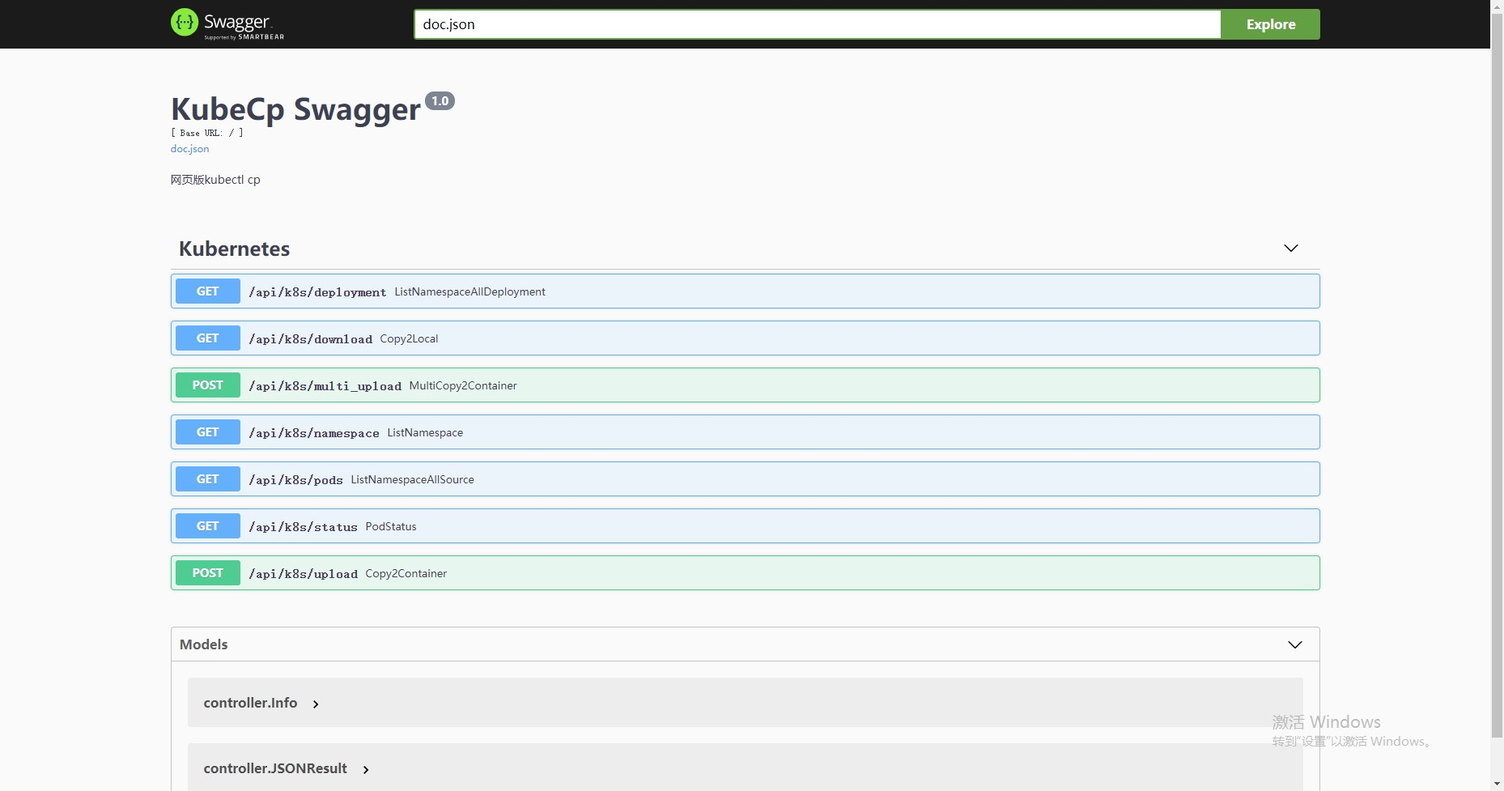
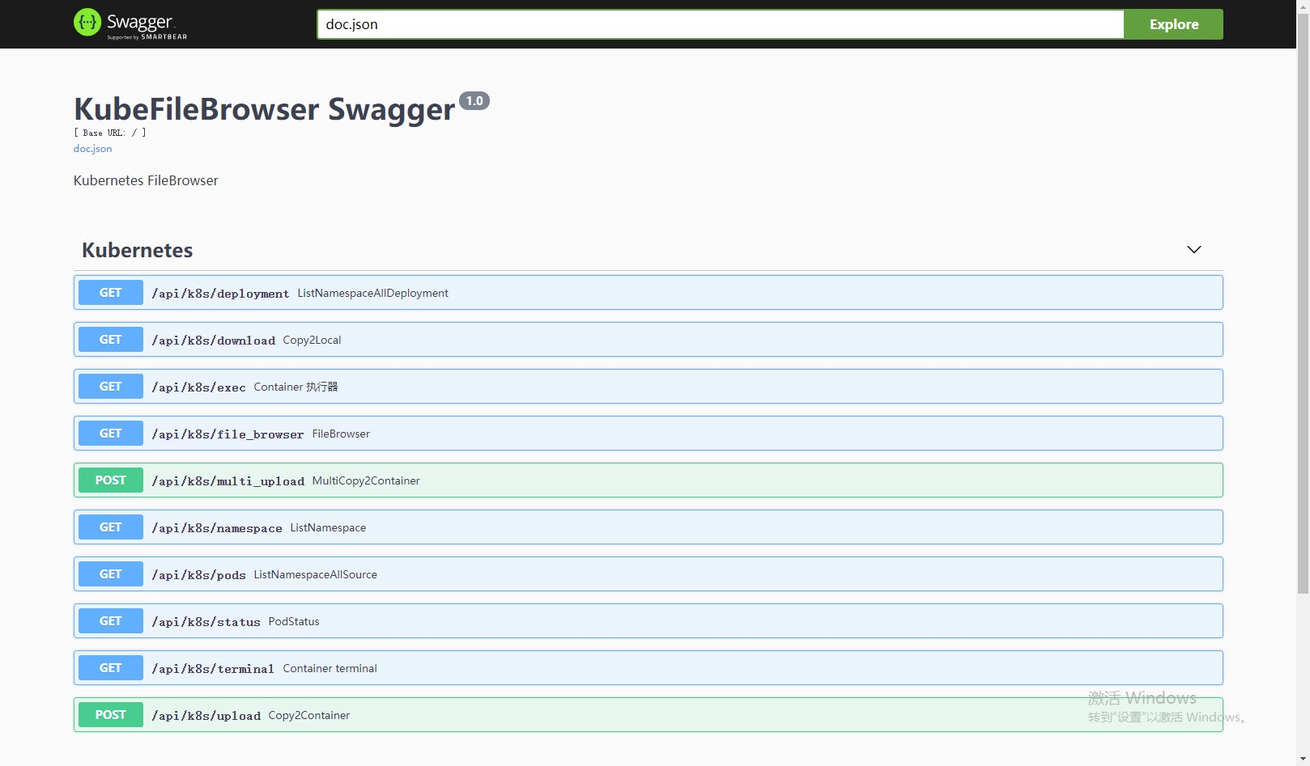
Update README.md

diff --git a/static/js/index.7d00048d.js b/static/js/index.7d00048d.js
@@ -1,0 +1,2 @@
+(function(e){function t(t){for(var n,s,c=t[0],d=t[1],i=t[2],l=0,u=[];l<c.length;l++)s=c[l],Object.prototype.hasOwnProperty.call(o,s)&&o[s]&&u.push(o[s][0]),o[s]=0;for(n in d)Object.prototype.hasOwnProperty.call(d,n)&&(e[n]=d[n]);f&&f(t);while(u.length)u.shift()();return r.push.apply(r,i||[]),a()}function a(){for(var e,t=0;t<r.length;t++){for(var a=r[t],n=!0,s=1;s<a.length;s++){var c=a[s];0!==o[c]&&(n=!1)}n&&(r.splice(t--,1),e=d(d.s=a[0]))}return e}var n={},s={index:0},o={index:0},r=[];function c(e){return d.p+"js/"+({}[e]||e)+"."+{"chunk-119f7568":"d7f2ed32","chunk-2d0c8a18":"7de5e9ec","chunk-2d0e523f":"cf1d377d","chunk-3c5be004":"fb1a3933","chunk-2d21f4b8":"b65d7fc1","chunk-681025a2":"60150167","chunk-cf10ed40":"1906f03c","chunk-fd94dad0":"9ed4e78a"}[e]+".js"}function d(t){if(n[t])return n[t].exports;var a=n[t]={i:t,l:!1,exports:{}};return e[t].call(a.exports,a,a.exports,d),a.l=!0,a.exports}d.e=function(e){var t=[],a={"chunk-119f7568":1};s[e]?t.push(s[e]):0!==s[e]&&a[e]&&t.push(s[e]=new Promise((function(t,a){for(var n="css/"+({}[e]||e)+"."+{"chunk-119f7568":"aca39d08","chunk-2d0c8a18":"31d6cfe0","chunk-2d0e523f":"31d6cfe0","chunk-3c5be004":"31d6cfe0","chunk-2d21f4b8":"31d6cfe0","chunk-681025a2":"31d6cfe0","chunk-cf10ed40":"31d6cfe0","chunk-fd94dad0":"31d6cfe0"}[e]+".css",o=d.p+n,r=document.getElementsByTagName("link"),c=0;c<r.length;c++){var i=r[c],l=i.getAttribute("data-href")||i.getAttribute("href");if("stylesheet"===i.rel&&(l===n||l===o))return t()}var u=document.getElementsByTagName("style");for(c=0;c<u.length;c++){i=u[c],l=i.getAttribute("data-href");if(l===n||l===o)return t()}var f=document.createElement("link");f.rel="stylesheet",f.type="text/css",f.onload=t,f.onerror=function(t){var n=t&&t.target&&t.target.src||o,r=new Error("Loading CSS chunk "+e+" failed.\n("+n+")");r.code="CSS_CHUNK_LOAD_FAILED",r.request=n,delete s[e],f.parentNode.removeChild(f),a(r)},f.href=o;var b=document.getElementsByTagName("head")[0];b.appendChild(f)})).then((function(){s[e]=0})));var n=o[e];if(0!==n)if(n)t.push(n[2]);else{var r=new Promise((function(t,a){n=o[e]=[t,a]}));t.push(n[2]=r);var i,l=document.createElement("script");l.charset="utf-8",l.timeout=120,d.nc&&l.setAttribute("nonce",d.nc),l.src=c(e);var u=new Error;i=function(t){l.onerror=l.onload=null,clearTimeout(f);var a=o[e];if(0!==a){if(a){var n=t&&("load"===t.type?"missing":t.type),s=t&&t.target&&t.target.src;u.message="Loading chunk "+e+" failed.\n("+n+": "+s+")",u.name="ChunkLoadError",u.type=n,u.request=s,a[1](u)}o[e]=void 0}};var f=setTimeout((function(){i({type:"timeout",target:l})}),12e4);l.onerror=l.onload=i,document.head.appendChild(l)}return Promise.all(t)},d.m=e,d.c=n,d.d=function(e,t,a){d.o(e,t)||Object.defineProperty(e,t,{enumerable:!0,get:a})},d.r=function(e){"undefined"!==typeof Symbol&&Symbol.toStringTag&&Object.defineProperty(e,Symbol.toStringTag,{value:"Module"}),Object.defineProperty(e,"__esModule",{value:!0})},d.t=function(e,t){if(1&t&&(e=d(e)),8&t)return e;if(4&t&&"object"===typeof e&&e&&e.__esModule)return e;var a=Object.create(null);if(d.r(a),Object.defineProperty(a,"default",{enumerable:!0,value:e}),2&t&&"string"!=typeof e)for(var n in e)d.d(a,n,function(t){return e[t]}.bind(null,n));return a},d.n=function(e){var t=e&&e.__esModule?function(){return e["default"]}:function(){return e};return d.d(t,"a",t),t},d.o=function(e,t){return Object.prototype.hasOwnProperty.call(e,t)},d.p="/static/",d.oe=function(e){throw console.error(e),e};var i=window["webpackJsonp"]=window["webpackJsonp"]||[],l=i.push.bind(i);i.push=t,i=i.slice();for(var u=0;u<i.length;u++)t(i[u]);var f=l;r.push([0,"chunk-vendors"]),a()})({0:function(e,t,a){e.exports=a("56d7")},"0351":function(e,t,a){var n={"./dashboard.vue":["d8e3","chunk-3c5be004","chunk-2d21f4b8"],"./download.vue":["67a0","chunk-3c5be004","chunk-cf10ed40"],"./filebrowser.vue":["92e5","chunk-2d0e523f"],"./layer.vue":["ad86","chunk-119f7568"],"./multiupload.vue":["5667","chunk-2d0c8a18"],"./terminal.vue":["fe80","chunk-3c5be004","chunk-681025a2"],"./upload.vue":["46c9","chunk-3c5be004","chunk-fd94dad0"]};function s(e){if(!a.o(n,e))return Promise.resolve().then((function(){var t=new Error("Cannot find module '"+e+"'");throw t.code="MODULE_NOT_FOUND",t}));var t=n[e],s=t[0];return Promise.all(t.slice(1).map(a.e)).then((function(){return a(s)}))}s.keys=function(){return Object.keys(n)},s.id="0351",e.exports=s},"3fab":function(e,t,a){"use strict";t["a"]={}},4678:function(e,t,a){var n={"./af":"2bfb","./af.js":"2bfb","./ar":"8e73","./ar-dz":"a356","./ar-dz.js":"a356","./ar-kw":"423e","./ar-kw.js":"423e","./ar-ly":"1cfd","./ar-ly.js":"1cfd","./ar-ma":"0a84","./ar-ma.js":"0a84","./ar-sa":"8230","./ar-sa.js":"8230","./ar-tn":"6d83","./ar-tn.js":"6d83","./ar.js":"8e73","./az":"485c","./az.js":"485c","./be":"1fc1","./be.js":"1fc1","./bg":"84aa","./bg.js":"84aa","./bm":"a7fa","./bm.js":"a7fa","./bn":"9043","./bn-bd":"9686","./bn-bd.js":"9686","./bn.js":"9043","./bo":"d26a","./bo.js":"d26a","./br":"6887","./br.js":"6887","./bs":"2554","./bs.js":"2554","./ca":"d716","./ca.js":"d716","./cs":"3c0d","./cs.js":"3c0d","./cv":"03ec","./cv.js":"03ec","./cy":"9797","./cy.js":"9797","./da":"0f14","./da.js":"0f14","./de":"b469","./de-at":"b3eb","./de-at.js":"b3eb","./de-ch":"bb71","./de-ch.js":"bb71","./de.js":"b469","./dv":"598a","./dv.js":"598a","./el":"8d47","./el.js":"8d47","./en-au":"0e6b","./en-au.js":"0e6b","./en-ca":"3886","./en-ca.js":"3886","./en-gb":"39a6","./en-gb.js":"39a6","./en-ie":"e1d3","./en-ie.js":"e1d3","./en-il":"7333","./en-il.js":"7333","./en-in":"ec2e","./en-in.js":"ec2e","./en-nz":"6f50","./en-nz.js":"6f50","./en-sg":"b7e9","./en-sg.js":"b7e9","./eo":"65db","./eo.js":"65db","./es":"898b","./es-do":"0a3c","./es-do.js":"0a3c","./es-mx":"b5b7","./es-mx.js":"b5b7","./es-us":"55c9","./es-us.js":"55c9","./es.js":"898b","./et":"ec18","./et.js":"ec18","./eu":"0ff2","./eu.js":"0ff2","./fa":"8df4","./fa.js":"8df4","./fi":"81e9","./fi.js":"81e9","./fil":"d69a","./fil.js":"d69a","./fo":"0721","./fo.js":"0721","./fr":"9f26","./fr-ca":"d9f8","./fr-ca.js":"d9f8","./fr-ch":"0e49","./fr-ch.js":"0e49","./fr.js":"9f26","./fy":"7118","./fy.js":"7118","./ga":"5120","./ga.js":"5120","./gd":"f6b4","./gd.js":"f6b4","./gl":"8840","./gl.js":"8840","./gom-deva":"aaf2","./gom-deva.js":"aaf2","./gom-latn":"0caa","./gom-latn.js":"0caa","./gu":"e0c5","./gu.js":"e0c5","./he":"c7aa","./he.js":"c7aa","./hi":"dc4d","./hi.js":"dc4d","./hr":"4ba9","./hr.js":"4ba9","./hu":"5b14","./hu.js":"5b14","./hy-am":"d6b6","./hy-am.js":"d6b6","./id":"5038","./id.js":"5038","./is":"0558","./is.js":"0558","./it":"6e98","./it-ch":"6f12","./it-ch.js":"6f12","./it.js":"6e98","./ja":"079e","./ja.js":"079e","./jv":"b540","./jv.js":"b540","./ka":"201b","./ka.js":"201b","./kk":"6d79","./kk.js":"6d79","./km":"e81d","./km.js":"e81d","./kn":"3e92","./kn.js":"3e92","./ko":"22f8","./ko.js":"22f8","./ku":"2421","./ku.js":"2421","./ky":"9609","./ky.js":"9609","./lb":"440c","./lb.js":"440c","./lo":"b29d","./lo.js":"b29d","./lt":"26f9","./lt.js":"26f9","./lv":"b97c","./lv.js":"b97c","./me":"293c","./me.js":"293c","./mi":"688b","./mi.js":"688b","./mk":"6909","./mk.js":"6909","./ml":"02fb","./ml.js":"02fb","./mn":"958b","./mn.js":"958b","./mr":"39bd","./mr.js":"39bd","./ms":"ebe4","./ms-my":"6403","./ms-my.js":"6403","./ms.js":"ebe4","./mt":"1b45","./mt.js":"1b45","./my":"8689","./my.js":"8689","./nb":"6ce3","./nb.js":"6ce3","./ne":"3a39","./ne.js":"3a39","./nl":"facd","./nl-be":"db29","./nl-be.js":"db29","./nl.js":"facd","./nn":"b84c","./nn.js":"b84c","./oc-lnc":"167b","./oc-lnc.js":"167b","./pa-in":"f3ff","./pa-in.js":"f3ff","./pl":"8d57","./pl.js":"8d57","./pt":"f260","./pt-br":"d2d4","./pt-br.js":"d2d4","./pt.js":"f260","./ro":"972c","./ro.js":"972c","./ru":"957c","./ru.js":"957c","./sd":"6784","./sd.js":"6784","./se":"ffff","./se.js":"ffff","./si":"eda5","./si.js":"eda5","./sk":"7be6","./sk.js":"7be6","./sl":"8155","./sl.js":"8155","./sq":"c8f3","./sq.js":"c8f3","./sr":"cf1e","./sr-cyrl":"13e9","./sr-cyrl.js":"13e9","./sr.js":"cf1e","./ss":"52bd","./ss.js":"52bd","./sv":"5fbd","./sv.js":"5fbd","./sw":"74dc","./sw.js":"74dc","./ta":"3de5","./ta.js":"3de5","./te":"5cbb","./te.js":"5cbb","./tet":"576c","./tet.js":"576c","./tg":"3b1b","./tg.js":"3b1b","./th":"10e8","./th.js":"10e8","./tk":"5aff","./tk.js":"5aff","./tl-ph":"0f38","./tl-ph.js":"0f38","./tlh":"cf75","./tlh.js":"cf75","./tr":"0e81","./tr.js":"0e81","./tzl":"cf51","./tzl.js":"cf51","./tzm":"c109","./tzm-latn":"b53d","./tzm-latn.js":"b53d","./tzm.js":"c109","./ug-cn":"6117","./ug-cn.js":"6117","./uk":"ada2","./uk.js":"ada2","./ur":"5294","./ur.js":"5294","./uz":"2e8c","./uz-latn":"010e","./uz-latn.js":"010e","./uz.js":"2e8c","./vi":"2921","./vi.js":"2921","./x-pseudo":"fd7e","./x-pseudo.js":"fd7e","./yo":"7f33","./yo.js":"7f33","./zh-cn":"5c3a","./zh-cn.js":"5c3a","./zh-hk":"49ab","./zh-hk.js":"49ab","./zh-mo":"3a6c","./zh-mo.js":"3a6c","./zh-tw":"90ea","./zh-tw.js":"90ea"};function s(e){var t=o(e);return a(t)}function o(e){if(!a.o(n,e)){var t=new Error("Cannot find module '"+e+"'");throw t.code="MODULE_NOT_FOUND",t}return n[e]}s.keys=function(){return Object.keys(n)},s.resolve=o,e.exports=s,s.id="4678"},"4f87":function(e,t,a){},"56d7":function(e,t,a){"use strict";a.r(t),function(e){var t=a("2b0e"),n=a("5c96"),s=a.n(n),o=(a("0fae"),a("c1df")),r=a.n(o),c=a("7fe4"),d=a("a18c"),i=a("9923"),l=a("f1ed"),u=a("9607"),f=(a("9368"),a("43dd"),a("59bf"));a("4f87");let b;e.navigator.language&&(b=e.navigator.language,b=b.toLowerCase()),0!==b.indexOf("en")&&(b="zh-cn"),r.a.locale(b),t["default"].config.productionTip=!1,t["default"].use(s.a,f["Terminal"]),new t["default"]({i18n:i["a"],router:d["a"],methods:l["a"],data:u["a"],render:e=>e(c["a"])}).$mount("#app")}.call(this,a("c8ba"))},"6e41":function(e,t,a){"use strict";t["a"]={add:"添加",cannot_empty:"不能为空",cancel:"取消",check_all:"全选",contribute_to_kube_cp:"为 KubeCp 做贡献",console:"控制台",container:"容器",copy:"上传下载",cpu:"处理器",dashboard:"仪表盘",delete:"删除",deleted:"已删除",deployment:"无状态集",description:"描述信息",download:"文件/目录下载",download_file:"下载",edit:"编辑",enter:"确定",filebrowser:"文件浏览器",help:"帮助",image:"镜像",image_pull_secrets:"镜像拉取策略",keyword_search:"关键字搜索",name:"名称",namespace:"命名空间",network_error:"网络错误",more:"更多",multiupload:"多Pod文件上传",operate_success:"操作成功",operate:"操作",os:"系统类型",please_input_dest_path:"请输入目标路径",please_select_container:"请选择Container",please_select_deployment:"请选择Deployment",please_select_namespace:"请选择Namespace",please_select_pod:"请选择Pod",please_select_shell:"请选择Shell",prompt_message:"提示信息",ram:"内存",remove:"移除",state:"状态",tag:"版本",terminal:"终端命令行",unknown_error:"未知错误",upload:"单Pod文件上传",upload_dir:"上传文件",upload_file:"上传文件夹"}},"7fe4":function(e,t,a){"use strict";var n=function(){var e=this,t=e.$createElement,a=e._self._c||t;return a("div",{staticClass:"global-container"},[a("router-view")],1)},s=[],o=(a("fffb"),a("2877")),r={},c=Object(o["a"])(r,n,s,!1,null,null,null);t["a"]=c.exports},9607:function(e,t,a){"use strict";t["a"]={PageSize:0,Page:0,Total:0,DialogSmallWidth:"500px",DialogNormalWidth:"750px",DialogLargeWidth:"900px",DialogNormalTop:"5vh"}},9923:function(e,t,a){"use strict";(function(e){var n=a("2b0e"),s=a("a925"),o=a("6e41"),r=a("3fab");n["default"].use(s["a"]);const c={"zh-cn":o["a"],en:r["a"]};let d;e.navigator.language&&(d=e.navigator.language,d=d.toLowerCase()),0!=d.indexOf("en")&&(d="zh-cn");const i=new s["a"]({locale:d,messages:c});t["a"]=i}).call(this,a("c8ba"))},a18c:function(e,t,a){"use strict";(function(e){a.d(t,"b",(function(){return c}));var n=a("2b0e"),s=a("8c4f"),o=a("9923");n["default"].use(s["a"]);const r=e=>()=>a("0351")("./"+e+".vue"),c=[{path:"/",component:r("layer"),name:"console",title:o["a"].t("console"),meta:{title:o["a"].t("console"),icon:"icon-console"},redirect:{name:"dashboard"},children:[{path:"dashboard",name:"dashboard",meta:{title:o["a"].t("dashboard"),icon:"icon-dashboard",single:!0},component:r("dashboard")},{path:"terminal",name:"terminal",meta:{title:o["a"].t("terminal"),icon:"icon-terminal"},component:r("terminal")},{path:"filebrowser",name:"filebrowser",meta:{title:o["a"].t("filebrowser"),icon:"icon-filebrowser"},component:r("filebrowser")}]},{path:"/copy",name:"copy",title:o["a"].t("copy"),component:r("layer"),meta:{title:o["a"].t("copy"),icon:"icon-copy"},children:[{path:"upload",name:"upload",meta:{title:o["a"].t("upload")},component:r("upload")},{path:"multiupload",name:"multiupload",meta:{title:o["a"].t("multiupload")},component:r("multiupload")},{path:"download",name:"download",meta:{title:o["a"].t("download")},component:r("download")}]}],d=new s["a"]({routes:c,base:e,scrollBehavior:()=>({y:0}),mode:"history"});t["a"]=d}).call(this,"/")},a210:function(e,t,a){},f1ed:function(e,t,a){"use strict";var n=a("c1df"),s=a.n(n);t["a"]={MessageSuccess(e){this.$message({message:this.$t("operate_success"),type:"success",duration:1200,onClose:e})},PageInit(){this.$root.PageSize=7,this.$root.Page=1,this.$root.Total=0},PageReset(){this.$root.Total--;let e=Math.ceil(this.$root.Total/this.$root.PageSize);this.$root.Page>e&&(this.$root.Page=e),this.$root.Page<1&&(this.$root.Page=1)},PageOffset(){return this.$root.PageSize*(this.$root.Page-1)},ConfirmDelete(e,t){t||(t="此操作将永久删除该数据, 是否继续?"),this.$confirm(t,"提示",{confirmButtonText:"确定",cancelButtonText:"取消",type:"warning"}).then(()=>{e()}).catch(e=>{console.log(e)})},FormatDateTime(e,t){return e?(t||(t="YYYY-MM-DD HH:mm:ss"),s.a.unix(e).format(t)):"--"},FormatDateDuration(e){return s.a.duration(e).humanize(!1)},FormatDateFromNow(e){return e?s.a.unix(e).fromNow():"--"},Substr(e,t){if("[object String]"!=Object.prototype.toString.call(e))return"";let a="";return e.length>t&&(a="..."),e.substr(0,t)+a}}},fffb:function(e,t,a){"use strict";a("a210")}});
+//# sourceMappingURL=index.7d00048d.js.map

diff --git a/static/index.html b/static/index.html
@@ -1,1 +1,1 @@
-<!DOCTYPE html><html lang=""><head><meta charset="utf-8"><meta http-equiv="X-UA-Compatible" content="IE=edge"><meta name="viewport" content="width=device-width,initial-scale=1"><title>Vue App</title><link href="/static/css/chunk-119f7568.aca39d08.css" rel="prefetch"><link href="/static/js/chunk-119f7568.d7f2ed32.js" rel="prefetch"><link href="/static/js/chunk-2d0c8a18.7de5e9ec.js" rel="prefetch"><link href="/static/js/chunk-2d0e523f.cf1d377d.js" rel="prefetch"><link href="/static/js/chunk-2d21f4b8.b65d7fc1.js" rel="prefetch"><link href="/static/js/chunk-3c5be004.fb1a3933.js" rel="prefetch"><link href="/static/js/chunk-681025a2.60150167.js" rel="prefetch"><link href="/static/js/chunk-cf10ed40.1906f03c.js" rel="prefetch"><link href="/static/js/chunk-fd94dad0.9ed4e78a.js" rel="prefetch"><link href="/static/css/chunk-vendors.78d6f332.css" rel="preload" as="style"><link href="/static/css/index.8bac31a4.css" rel="preload" as="style"><link href="/static/js/chunk-vendors.f8f1ad50.js" rel="preload" as="script"><link href="/static/js/index.bea2b710.js" rel="preload" as="script"><link href="/static/css/chunk-vendors.78d6f332.css" rel="stylesheet"><link href="/static/css/index.8bac31a4.css" rel="stylesheet"></head><body><div id="app"></div><script src="/static/js/chunk-vendors.f8f1ad50.js"></script><script src="/static/js/index.bea2b710.js"></script></body></html>
+<!DOCTYPE html><html lang=""><head><meta charset="utf-8"><meta http-equiv="X-UA-Compatible" content="IE=edge"><meta name="viewport" content="width=device-width,initial-scale=1"><title>Vue App</title><link href="/static/css/chunk-119f7568.aca39d08.css" rel="prefetch"><link href="/static/js/chunk-119f7568.d7f2ed32.js" rel="prefetch"><link href="/static/js/chunk-2d0c8a18.7de5e9ec.js" rel="prefetch"><link href="/static/js/chunk-2d0e523f.cf1d377d.js" rel="prefetch"><link href="/static/js/chunk-2d21f4b8.b65d7fc1.js" rel="prefetch"><link href="/static/js/chunk-3c5be004.fb1a3933.js" rel="prefetch"><link href="/static/js/chunk-681025a2.60150167.js" rel="prefetch"><link href="/static/js/chunk-cf10ed40.1906f03c.js" rel="prefetch"><link href="/static/js/chunk-fd94dad0.9ed4e78a.js" rel="prefetch"><link href="/static/css/chunk-vendors.78d6f332.css" rel="preload" as="style"><link href="/static/css/index.8bac31a4.css" rel="preload" as="style"><link href="/static/js/chunk-vendors.f8f1ad50.js" rel="preload" as="script"><link href="/static/js/index.7d00048d.js" rel="preload" as="script"><link href="/static/css/chunk-vendors.78d6f332.css" rel="stylesheet"><link href="/static/css/index.8bac31a4.css" rel="stylesheet"></head><body><div id="app"></div><script src="/static/js/chunk-vendors.f8f1ad50.js"></script><script src="/static/js/index.7d00048d.js"></script></body></html>

diff --git a/web/src/main.js b/web/src/main.js
@@ -7,7 +7,6 @@ import router from './router'
 import i18n from './lang'
 import util from './lib/util.js'
 import data from './lib/data.js'
-import {directives} from './lib/directives.js'
 import "xterm/dist/xterm.css";
 import "xterm/dist/xterm.js";
 import { Terminal } from 'xterm';
@@ -24,7 +23,7 @@ if (localeLang.indexOf('en') !== 0) {
 moment.locale(localeLang)
 // Vue.config.debug = true;
 Vue.config.productionTip = false
-Vue.use(ElementUI, directives, Terminal);
+Vue.use(ElementUI, Terminal);
 
 new Vue({
     i18n,

diff --git a/docs/docs.go b/docs/docs.go
@@ -117,13 +117,13 @@ var doc = `{
                     "200": {
                         "description": "OK",
                         "schema": {
-                            "$ref": "#/definitions/controller.JSONResult"
+                            "$ref": "#/definitions/apis.JSONResult"
                         }
                     },
                     "500": {
                         "description": "Internal Server Error",
                         "schema": {
-                            "$ref": "#/definitions/controller.JSONResult"
+                            "$ref": "#/definitions/apis.JSONResult"
                         }
                     }
                 }
@@ -253,13 +253,13 @@ var doc = `{
                     "200": {
                         "description": "OK",
                         "schema": {
-                            "$ref": "#/definitions/controller.JSONResult"
+                            "$ref": "#/definitions/apis.JSONResult"
                         }
                     },
                     "500": {
                         "description": "Internal Server Error",
                         "schema": {
-                            "$ref": "#/definitions/controller.JSONResult"
+                            "$ref": "#/definitions/apis.JSONResult"
                         }
                     }
                 }
@@ -572,13 +572,13 @@ var doc = `{
                     "200": {
                         "description": "OK",
                         "schema": {
-                            "$ref": "#/definitions/controller.JSONResult"
+                            "$ref": "#/definitions/apis.JSONResult"
                         }
                     },
                     "500": {
                         "description": "Internal Server Error",
                         "schema": {
-                            "$ref": "#/definitions/controller.JSONResult"
+                            "$ref": "#/definitions/apis.JSONResult"
                         }
                     }
                 }
@@ -693,13 +693,13 @@ var doc = `{
                     "200": {
                         "description": "OK",
                         "schema": {
-                            "$ref": "#/definitions/controller.JSONResult"
+                            "$ref": "#/definitions/apis.JSONResult"
                         }
                     },
                     "500": {
                         "description": "Internal Server Error",
                         "schema": {
-                            "$ref": "#/definitions/controller.JSONResult"
+                            "$ref": "#/definitions/apis.JSONResult"
                         }
                     }
                 }
@@ -782,13 +782,13 @@ var doc = `{
                     "200": {
                         "description": "OK",
                         "schema": {
-                            "$ref": "#/definitions/controller.JSONResult"
+                            "$ref": "#/definitions/apis.JSONResult"
                         }
                     },
                     "500": {
                         "description": "Internal Server Error",
                         "schema": {
-                            "$ref": "#/definitions/controller.JSONResult"
+                            "$ref": "#/definitions/apis.JSONResult"
                         }
                     }
                 }
@@ -852,13 +852,13 @@ var doc = `{
                     "200": {
                         "description": "OK",
                         "schema": {
-                            "$ref": "#/definitions/controller.JSONResult"
+                            "$ref": "#/definitions/apis.JSONResult"
                         }
                     },
                     "500": {
                         "description": "Internal Server Error",
                         "schema": {
-                            "$ref": "#/definitions/controller.JSONResult"
+                            "$ref": "#/definitions/apis.JSONResult"
                         }
                     }
                 }
@@ -957,13 +957,13 @@ var doc = `{
                     "200": {
                         "description": "OK",
                         "schema": {
-                            "$ref": "#/definitions/controller.JSONResult"
+                            "$ref": "#/definitions/apis.JSONResult"
                         }
                     },
                     "500": {
                         "description": "Internal Server Error",
                         "schema": {
-                            "$ref": "#/definitions/controller.JSONResult"
+                            "$ref": "#/definitions/apis.JSONResult"
                         }
                     }
                 }
@@ -1066,13 +1066,13 @@ var doc = `{
                     "200": {
                         "description": "OK",
                         "schema": {
-                            "$ref": "#/definitions/controller.JSONResult"
+                            "$ref": "#/definitions/apis.JSONResult"
                         }
                     },
                     "500": {
                         "description": "Internal Server Error",
                         "schema": {
-                            "$ref": "#/definitions/controller.JSONResult"
+                            "$ref": "#/definitions/apis.JSONResult"
                         }
                     }
                 }
@@ -1183,13 +1183,13 @@ var doc = `{
                     "200": {
                         "description": "OK",
                         "schema": {
-                            "$ref": "#/definitions/controller.JSONResult"
+                            "$ref": "#/definitions/apis.JSONResult"
                         }
                     },
                     "500": {
                         "description": "Internal Server Error",
                         "schema": {
-                            "$ref": "#/definitions/controller.JSONResult"
+                            "$ref": "#/definitions/apis.JSONResult"
                         }
                     }
                 }
@@ -1310,13 +1310,13 @@ var doc = `{
                     "200": {
                         "description": "OK",
                         "schema": {
-                            "$ref": "#/definitions/controller.JSONResult"
+                            "$ref": "#/definitions/apis.JSONResult"
                         }
                     },
                     "500": {
                         "description": "Internal Server Error",
                         "schema": {
-                            "$ref": "#/definitions/controller.JSONResult"
+                            "$ref": "#/definitions/apis.JSONResult"
                         }
                     }
                 }
@@ -1324,7 +1324,7 @@ var doc = `{
         }
     },
     "definitions": {
-        "controller.Info": {
+        "apis.Info": {
             "type": "object",
             "properties": {
                 "message": {
@@ -1337,7 +1337,7 @@ var doc = `{
                 }
             }
         },
-        "controller.JSONResult": {
+        "apis.JSONResult": {
             "type": "object",
             "properties": {
                 "code": {
@@ -1348,7 +1348,7 @@ var doc = `{
                     "type": "object"
                 },
                 "info": {
-                    "$ref": "#/definitions/controller.Info"
+                    "$ref": "#/definitions/apis.Info"
                 }
             }
         }
@@ -1370,8 +1370,8 @@ var SwaggerInfo = swaggerInfo{
 	Host:        "",
 	BasePath:    "/",
 	Schemes:     []string{},
-	Title:       "KubeCp Swagger",
-	Description: "网页版kubectl cp",
+	Title:       "KubeFileBrowser Swagger",
+	Description: "Kubernetes FileBrowser",
 }
 
 type s struct{}

diff --git a/configs/config.go b/configs/config.go
@@ -29,11 +29,10 @@ type Configure struct {
 	HTTPAddr    string   `envconfig:"HTTP_ADDR" default:"0.0.0.0"`
 	LogLevel    string   `envconfig:"LOG_LEVEL" default:"debug"`
 	IPWhiteList []string `envconfig:"IP_WHITE_LIST" default:"*"`
-	DownLoadTmp string   `envconfig:"DOWNLOAD_TMP" default:"tmp"`
 }
 
 var (
-	TmpPath       string
+	TmpPath       = os.TempDir()
 	Config        Configure
 	RestClient    *kubernetes.Clientset
 	KuBeResConf   *rest.Config
@@ -60,14 +59,6 @@ func init() {
 	err := envconfig.Process("", &Config)
 	if err != nil {
 		logs.Fatal(err)
-	}
-
-	TmpPath = filepath.Join(utils.RootPath(), Config.DownLoadTmp)
-	if !utils.FileOrPathExist(TmpPath) {
-		err := os.MkdirAll(TmpPath, os.ModePerm)
-		if err != nil {
-			logs.Fatal("无法创建文件夹", err)
-		}
 	}
 
 	logs.SetLogLevel(Config.LogLevel)

diff --git a/README.md b/README.md
@@ -19,25 +19,29 @@ kubernetes container file browser
 
 ```text
 [GIN-debug] [WARNING] Running in "debug" mode. Switch to "release" mode in production.
- - using env:   export GIN_MODE=release
- - using code:  gin.SetMode(gin.ReleaseMode)
+ - using env:	export GIN_MODE=release
+ - using code:	gin.SetMode(gin.ReleaseMode)
 
-[GIN-debug] GET    /swagger/*any             --> github.com/swaggo/gin-swagger.CustomWrapHandler.func1 (4 handlers)
-[GIN-debug] GET    /tmp/*filepath            --> github.com/gin-gonic/gin.(*RouterGroup).createStaticHandler.func1 (4 handlers)
-[GIN-debug] HEAD   /tmp/*filepath            --> github.com/gin-gonic/gin.(*RouterGroup).createStaticHandler.func1 (4 handlers)
-[GIN-debug] GET    /                         --> kubecp/controller/static.StatusHtml (4 handlers)
-[GIN-debug] GET    /upload                   --> kubecp/controller/static.UploadHtml (4 handlers)
-[GIN-debug] GET    /multi_upload             --> kubecp/controller/static.MultiUploadHtml (4 handlers)
-[GIN-debug] GET    /download                 --> kubecp/controller/static.DownloadHtml (4 handlers)
-[GIN-debug] GET    /api/k8s/namespace        --> kubecp/controller/k8s.ListNamespace (5 handlers)
-[GIN-debug] GET    /api/k8s/deployment       --> kubecp/controller/k8s.ListNamespaceAllDeployment (5 handlers)
-[GIN-debug] GET    /api/k8s/pods             --> kubecp/controller/k8s.ListNamespaceAllPods (5 handlers)
-[GIN-debug] GET    /api/k8s/status           --> kubecp/controller/k8s.PodStatus (5 handlers)
-[GIN-debug] POST   /api/k8s/upload           --> kubecp/controller/k8s.Copy2Container (5 handlers)
-[GIN-debug] POST   /api/k8s/multi_upload     --> kubecp/controller/k8s.MultiCopy2Container (5 handlers)
-[GIN-debug] GET    /api/k8s/download         --> kubecp/controller/k8s.Copy2Local (5 handlers)
+[GIN-debug] GET    /swagger/*any             --> github.com/swaggo/gin-swagger.CustomWrapHandler.func1 (5 handlers)
+[GIN-debug] GET    /                         --> github.com/gin-gonic/gin.(*RouterGroup).StaticFile.func1 (5 handlers)
+[GIN-debug] HEAD   /                         --> github.com/gin-gonic/gin.(*RouterGroup).StaticFile.func1 (5 handlers)
+[GIN-debug] GET    /static/*filepath         --> github.com/gin-gonic/gin.(*RouterGroup).createStaticHandler.func1 (5 handlers)
+[GIN-debug] HEAD   /static/*filepath         --> github.com/gin-gonic/gin.(*RouterGroup).createStaticHandler.func1 (5 handlers)
+[GIN-debug] GET    /api/k8s/namespace        --> kubefilebrowser/apis/k8s.ListNamespace (6 handlers)
+[GIN-debug] GET    /api/k8s/deployment       --> kubefilebrowser/apis/k8s.ListNamespaceAllDeployment (6 handlers)
+[GIN-debug] GET    /api/k8s/pods             --> kubefilebrowser/apis/k8s.ListNamespaceAllPods (6 handlers)
+[GIN-debug] GET    /api/k8s/status           --> kubefilebrowser/apis/k8s.PodStatus (6 handlers)
+[GIN-debug] POST   /api/k8s/upload           --> kubefilebrowser/apis/k8s.Copy2Container (6 handlers)
+[GIN-debug] POST   /api/k8s/multi_upload     --> kubefilebrowser/apis/k8s.MultiCopy2Container (6 handlers)
+[GIN-debug] GET    /api/k8s/download         --> kubefilebrowser/apis/k8s.Copy2Local (6 handlers)
+[GIN-debug] GET    /api/k8s/terminal         --> kubefilebrowser/apis/k8s.Terminal (6 handlers)
+[GIN-debug] GET    /api/k8s/exec             --> kubefilebrowser/apis/k8s.Exec (6 handlers)
+[GIN-debug] GET    /api/k8s/file_browser     --> kubefilebrowser/apis/k8s.FileBrowser (6 handlers)
 ```
+
+## Index.html
+![kubefilebrowser_index_html](https://raw.githubusercontent.com/xmapst/kubefilebrowser/main/index_html.jpg)
 
 ## Swagger
 
-![kubecp swagger image](https://raw.githubusercontent.com/xmapst/kubefilebrowser/main/swagger.jpg)
+![kubefilebrowser swagger image](https://raw.githubusercontent.com/xmapst/kubefilebrowser/main/swagger.jpg)
